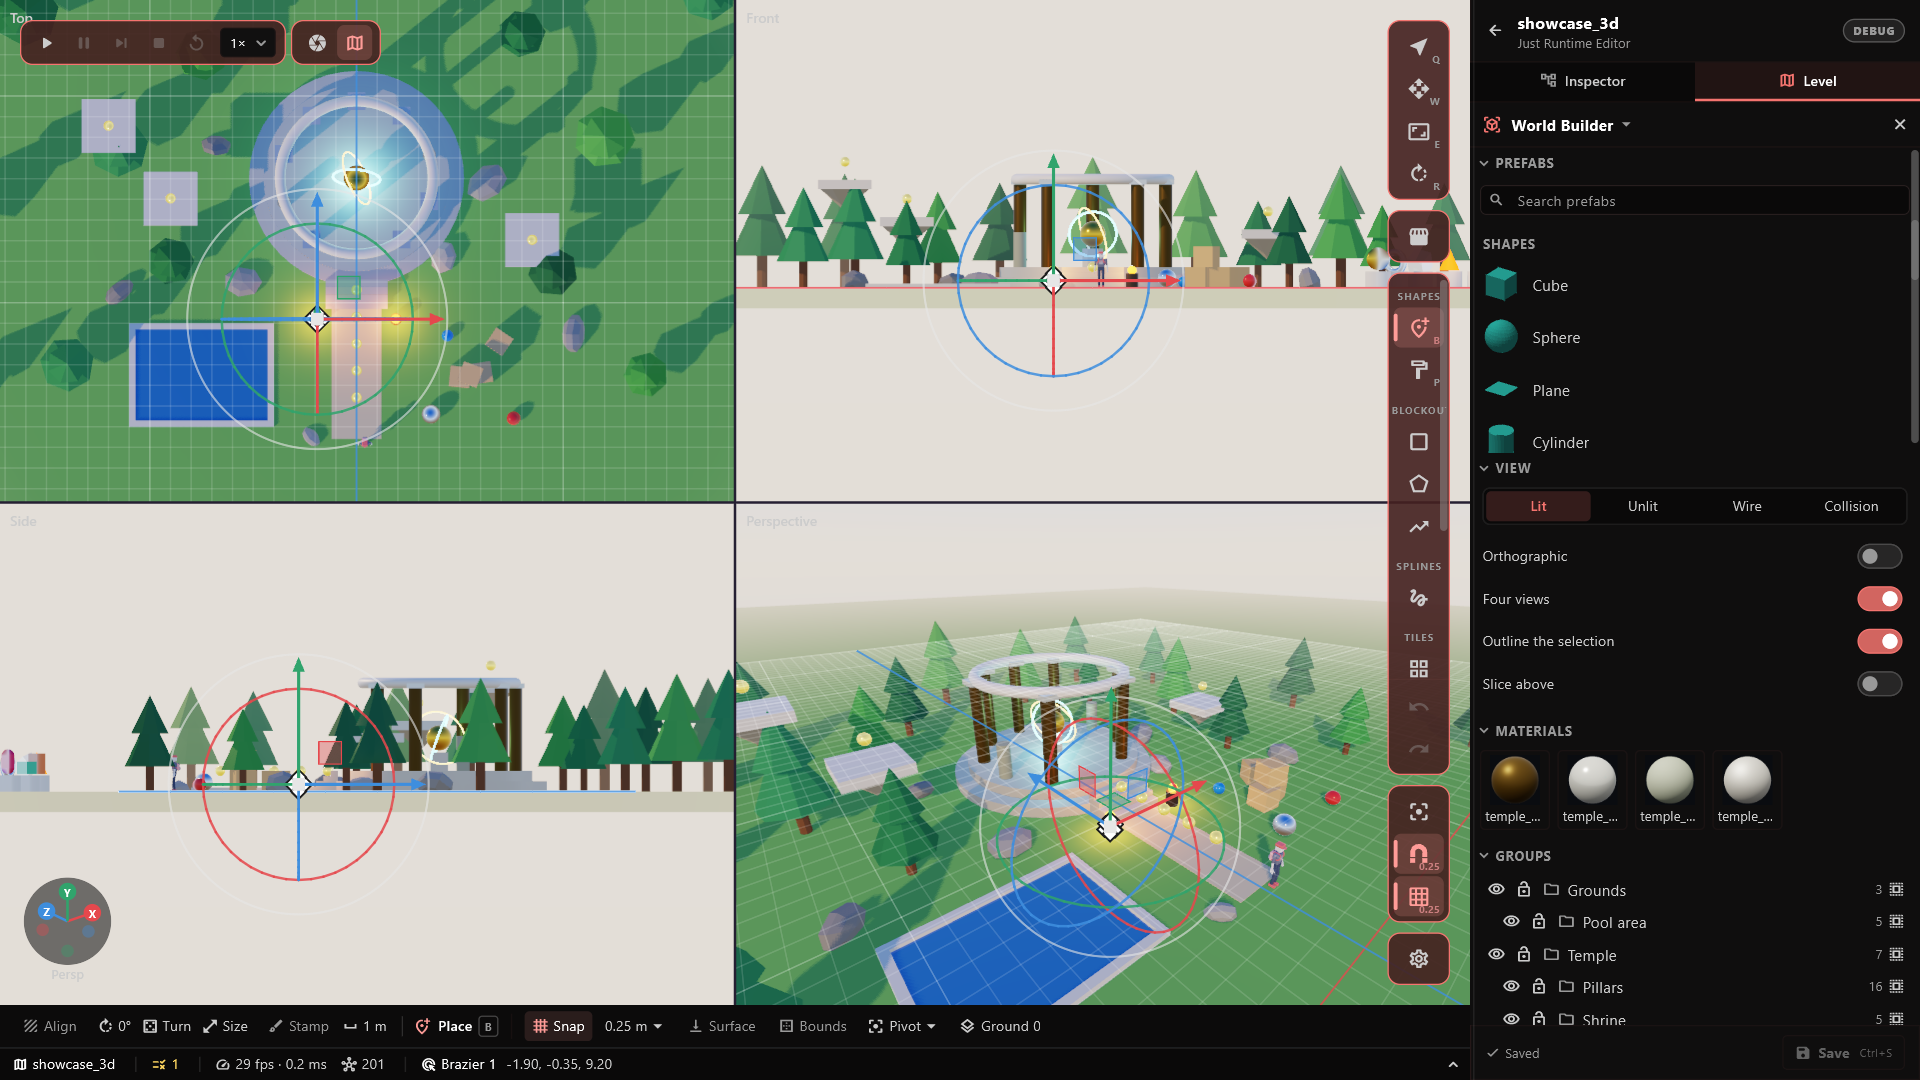
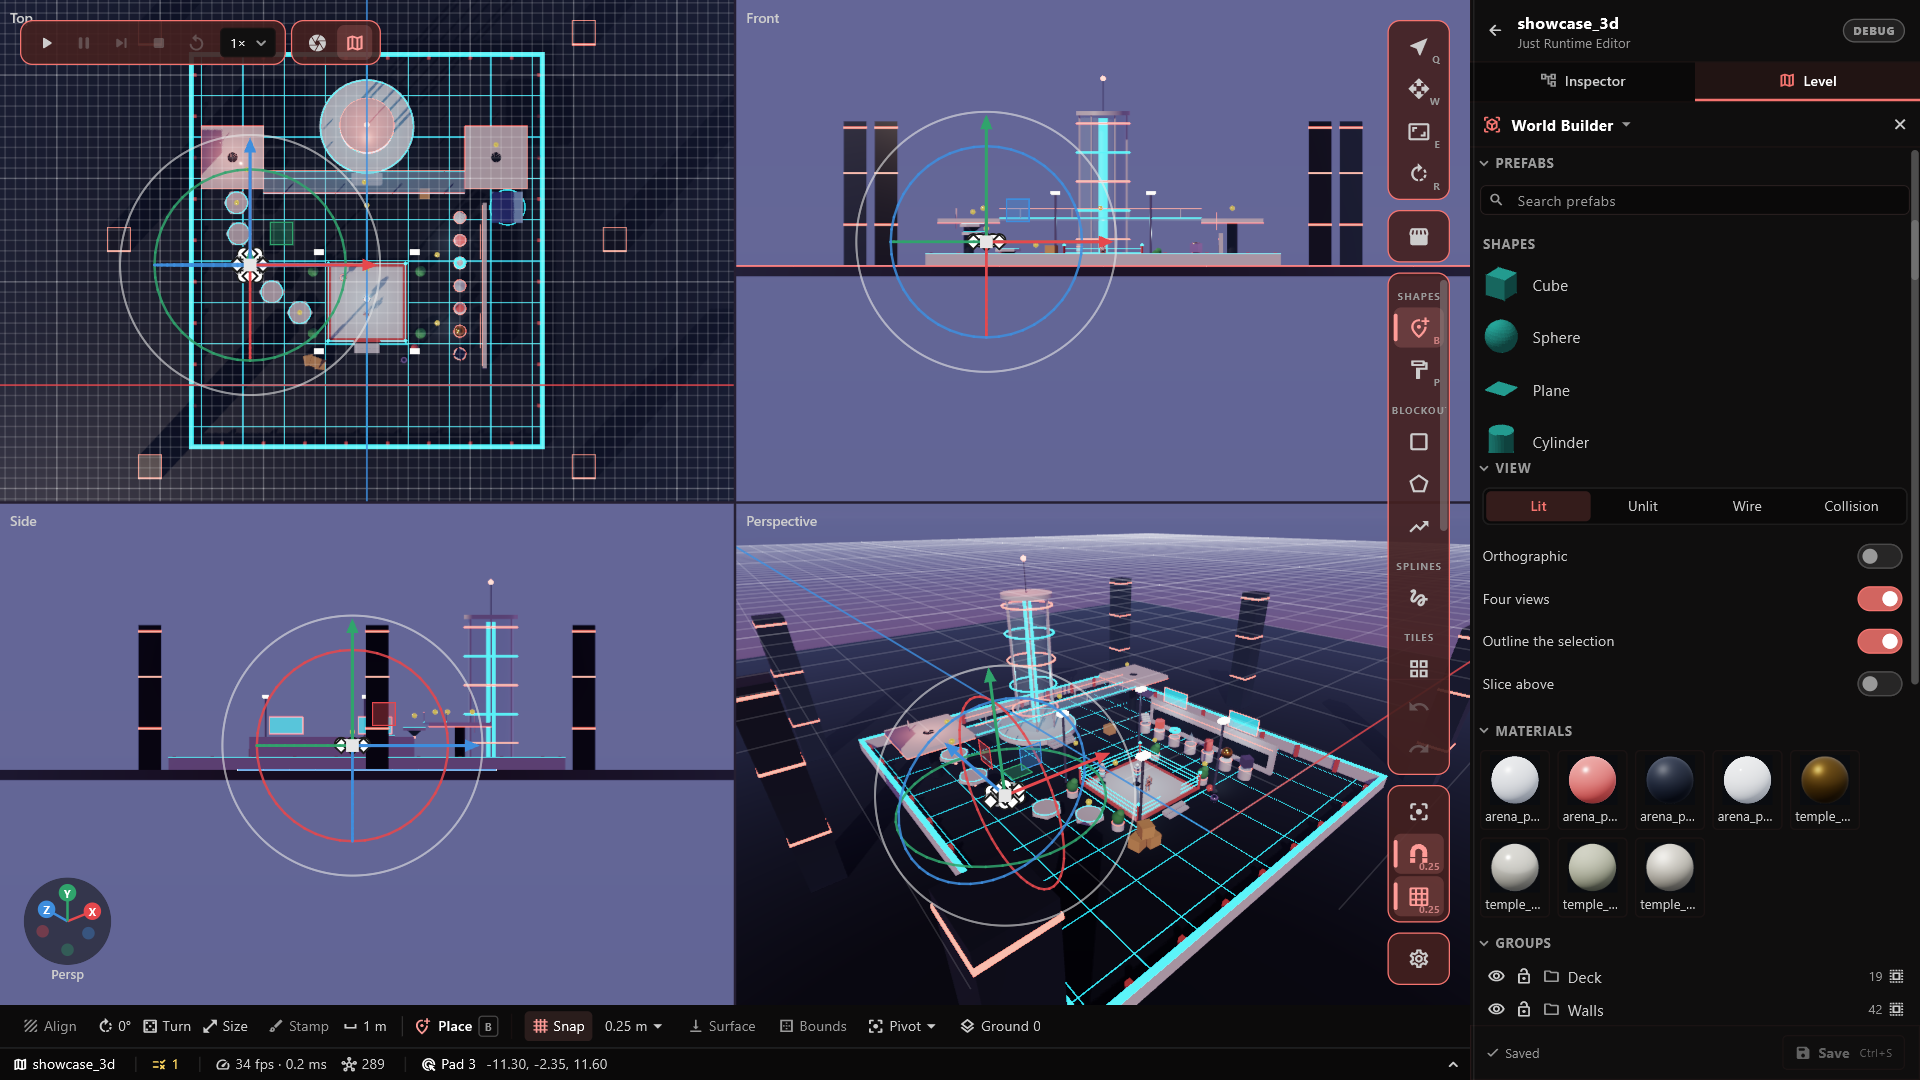
docs: retake the screenshots; need just_graphics_engine ^0.1.0
- Nine editor screenshots retaken on the new showcase scenes: the 2-D
  and 3-D scene views and Level Designers, the 3-D Material window,
  physics, play-test, settings and the Timeline.
- Captions follow them: the Timeline animates a barrel, the 2-D
  Material window shows the cave's normal-mapped rock, the 3-D one a
  polished variant of the arena panel.
- Requires just_graphics_engine ^0.1.0 (was ^0.2.0), its first stable
  release; the CHANGELOG says so, and that cooks made by its dev
  releases are cooked again.

diff --git a/CHANGELOG.md b/CHANGELOG.md
@@ -34,11 +34,11 @@ The first release that isn't a dev release: from here its API follows semantic v
 - The editor's checks live in their features: `SceneChecks` (`problems/`, was `BuiltInValidators`) and `LevelMapChecks` (`level_map/`); the dock ids are `DockIds` (`docks/`); the workspaces' definitions are `TilesetWorkspace.definition` and `JsonWorkspace.definition`; `GamePreviewStyle` is in `camera/`; `BuiltInPrefabs.newLevelMap` returns `LevelMapProvision.blankMap`.
 - The viewport's look (grid, selection colour, handle size) follows the settings through the overlay's `EditorMetrics.apply`, which now drives `ViewportLook` too; `ViewportLook.apply` is gone. The asset index is just_editor_core's `scope.assetIndex`, and the editor's own scope services are made with `EditorScope.service`.
 - Requires just_game_engine ^2.0.0.
-- Requires just_graphics_engine ^0.2.0 and just_tiled ^0.5.0. The 3-D views, model thumbnails and material pictures use just_graphics_engine's new names (`Render3DScene`, `Render3DView`, `Render3DViewMode`, `Material3DOverride`, `Shape3DMesh`, `Shape3DUv`); a model's lights take their kind as the model has it (`Light3DData.kind`, which is the engine's `Light3DKind`); Tiled maps are read through `TmxParser` and a `TiledFileProvider`.
+- Requires just_graphics_engine ^0.1.0 and just_tiled ^0.5.0. The 3-D views, model thumbnails and material pictures use just_graphics_engine's new names (`Render3DScene`, `Render3DView`, `Render3DViewMode`, `Material3DOverride`, `Shape3DMesh`, `Shape3DUv`); a model's lights take their kind as the model has it (`Light3DData.kind`, which is the engine's `Light3DKind`); Tiled maps are read through `TmxParser` and a `TiledFileProvider`.
 - Depends on just_graphics_engine directly (it was a dev dependency): model cooking and glTF import, thumbnails and the material previews use the parts of it that the engine's 3-D library no longer re-exports.
 - Requires just_colours ^0.2.0 and just_debugger ^0.1.0: the debugger binds through `JustDebuggerController.bind` (`bindToSources` is gone).
 - Requires just_asset_store ^0.3.0. Planning an uninstall searches the project for everything that goes with the item in one pass, on another isolate (`AssetStore.planUninstall`), so the store window no longer stops while it reads the project; it says "Reading the project" meanwhile, and its buttons wait.
-- A cooked model is stale when any file its model refers to changed (a `.gltf`'s buffers and images, found with `modelFilesOf` and stamped with `cookStamp(files:)`), not only the model file and its settings; one that is missing cooks it again. Cooks made before just_graphics_engine 0.2.0 are cooked again as a project opens.
+- A cooked model is stale when any file its model refers to changed (a `.gltf`'s buffers and images, found with `modelFilesOf` and stamped with `cookStamp(files:)`), not only the model file and its settings; one that is missing cooks it again. Cooks made by just_graphics_engine's dev releases (0.1.0-dev.1 and dev.2) are cooked again as a project opens.
 - Rays are just_dart 0.3.0's `Ray3D` (was `Ray3`), through the engine, in the 3-D gizmos, snaps, picking and Level Designer checks (`Gizmo3DDragSolver.adjustMove`, `Translate3DSnaps.adjust`, `ModelRayTest`, `Shape3DRayTest`).
 - A scene that names a component or field a package has renamed opens with the new names, whatever its format (just_game_engine_formats 0.3.0 applies the renames at every load); the log says so, and a save keeps them. The 3-D material actions use `Material3DFile.isMaterial3DPath`.
 - Uses just_physics_engine 2.0's names, through the engine (`Physics2DBody`, `Shape2D`, `Circle2DShape`, `Body2DType`, …); the system that holds a dragged body still while a play-test runs (`JustGameEditorPlugin(bindPhysicsBodies:)`) is `Physics2DBodyBindingSystem`. Nothing behaves differently.

diff --git a/README.md b/README.md
@@ -8,7 +8,7 @@ Press **F1** to show or hide the editor over the game.
 |---|---|
 | ![The editor over a 2D level: scene tree, inspector, gizmo, game camera preview and Assets dock](assets/screenshots/editor_2d_scene.png) | ![A 3D scene: orbit view, 3D gizmo, level aids, game camera preview and materials in the Assets dock](assets/screenshots/editor_3d_scene.png) |
 | ![The Level Designer: a tile stamp over the Level Map, its layers, the tileset palette and the tool strip](assets/screenshots/editor_2d_level_designer.png) | ![The 3D Level Designer in four views, with the World Builder kit](assets/screenshots/editor_3d_level_designer.png) |
-| ![The 2D Material window: a normal-mapped wall under a light, its effect cards and the light's settings](assets/screenshots/editor_2d_material.png) | ![The 3D Material window: a material variant on a ball, lit by the scene's sky](assets/screenshots/editor_3d_material.png) |
+| ![The 2D Material window: normal-mapped cave rock under a light, its effect card and the light's settings](assets/screenshots/editor_2d_material.png) | ![The 3D Material window: a material variant on a ball, lit by the scene's sky](assets/screenshots/editor_3d_material.png) |
 
 | Timeline and physics | Play-testing and settings |
 |---|---|
